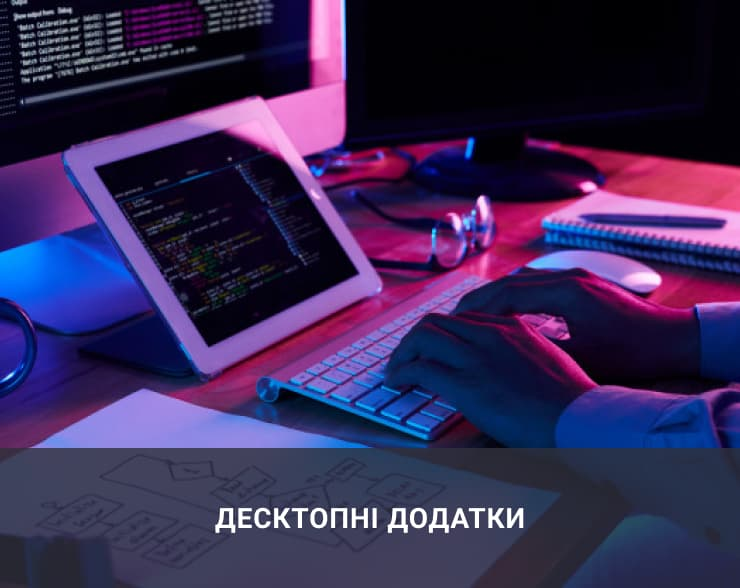
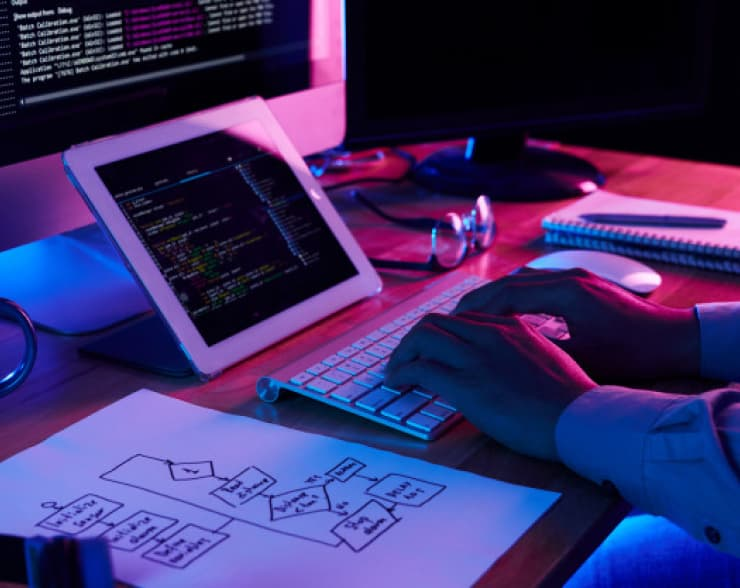
Section 3

Changed region(s): [[0.0, 0.7347, 1.0, 1.0]]

diff --git a/css/main.min.css b/css/main.min.css
@@ -1,1 +1,1 @@
-:root{--color-primary: #212121;--color-active: #2196f3;--color-secondary: #757575;--color-text: #fff;--color-icons: #afb1b8;--color-icons-footer: #ffffff;--background-color-section: #f5f4fa;--background-color-click: #188CE8;--background-color-primary: #fff;--background-color-bord: #2f303a;--font-family-primary: "Roboto", sans-serif;--font-family-logo: "Raleway", sans-serif;--bg-icons-color: #F5F4FA;--bg-icons-footer-color: rgba(255, 255, 255, 0.1);--label-color: #757575;--footer-input-color: rgba(255, 255, 255, 0.6)}body{font-family:var(--font-family-primary);color:var(--color-primary);background-color:var(--background-color-primary);font-weight:400;font-size:14px}.filter__list,.examples__list,.menu__list,.benefits__list,.services__list,.team__list,.team__social--list,.footer__social--list,.clients__list{list-style-type:none}.section{margin-left:auto;margin-right:auto;padding-top:60px;padding-bottom:60px}@media screen and (min-width: 1200px){.section{padding-top:94px;padding-bottom:94px}}.container{padding-left:15px;padding-right:15px}@media screen and (min-width: 480px){.container{width:480px;margin-left:auto;margin-right:auto}}@media screen and (min-width: 768px){.container{width:768px}}@media screen and (min-width: 1200px){.container{width:1200px}}.button{width:200px;height:50px;transition:background-color 250ms cubic-bezier(0.4, 0, 0.2, 1);color:var(--color-text);font-family:var(--font-family-primary);font-weight:700;font-size:16px;line-height:1.88;letter-spacing:.06em;cursor:pointer;background-color:var(--color-active);border-radius:4px;border:1px;box-shadow:0px 4px 4px rgba(0,0,0,.15)}.button:hover,.button:focus{background-color:var(--background-color-click)}@media screen and (max-width: 767px){.header__box{display:flex;justify-content:space-between;align-items:center}}@media screen and (min-width: 768px){.header{border-bottom:1px solid #ececec}.header__box{display:flex;justify-content:center;align-items:center}}@media screen and (max-width: 767px){.mobile-menu__social,.mobile-menu__contacts,.mobile-menu__pages{list-style-type:none}.mobile-menu__social--link,.mobile-menu__pages--link,.mobile-menu__contacts--tel,.mobile-menu__contacts--mail{text-decoration:none}.mobile-menu{overflow-y:scroll;overflow-x:hidden;position:fixed;top:0;left:0;z-index:100;width:100%;height:100%;background-color:var(--color-text);opacity:0;visibility:hidden;pointer-events:none;transition:opacity 250ms cubic-bezier(0.4, 0, 0.2, 1),visibility 250ms cubic-bezier(0.4, 0, 0.2, 1)}.mobile-menu.is-open{opacity:1;visibility:visible;pointer-events:auto}.mobile-menu__box{position:relative}.mobile-menu__close--btn{position:absolute;border:0;background-color:rgba(0,0,0,0);line-height:0;top:10px;right:15px;padding:0}.mobile-menu__close--icon{width:40px;height:40px}.mobile-menu__pages{margin:0;padding-left:40px;padding-top:48px}.mobile-menu__pages--item{margin-bottom:32px}.mobile-menu__pages--item:last-child{margin-bottom:302px}.mobile-menu__pages--link{font-size:40px;line-height:1.17;font-weight:500;letter-spacing:.02em;color:var(--color-primary)}.mobile-menu__pages--link:hover,.mobile-menu__pages--link:focus{color:var(--color-active)}.mobile-menu__contacts{margin:0;padding-left:40px}.mobile-menu__contacts--item{margin-bottom:32px}.mobile-menu__contacts--item:last-child{margin-bottom:65px}.mobile-menu__contacts--tel{font-weight:500;font-size:34px;line-height:1.17;letter-spacing:.02em;color:var(--color-active)}.mobile-menu__contacts--mail{font-weight:500;font-size:24px;line-height:1.16;letter-spacing:.02em;color:var(--color-secondary)}.mobile-menu__social{display:flex;align-items:center;padding-bottom:48px;padding-left:40px;margin:0}.mobile-menu__social--item{border-right:1px solid rgba(33,33,33,.2);padding-right:10px;padding-left:10px}.mobile-menu__social--item:first-child{padding-left:0}.mobile-menu__social--item:last-child{border-right:0;padding-right:0}.mobile-menu__social--link{font-weight:500;font-size:18px;line-height:1.22;letter-spacing:.02em;color:var(--color-active)}}@media screen and (min-width: 768px){.mobile-menu{display:none}}.menu__logo{display:block;color:var(--color-primary);font-family:var(--font-family-logo);text-decoration:none;font-weight:700;font-size:24px;letter-spacing:.03em}.menu__logo-inverse{color:var(--color-active)}@media screen and (max-width: 767px){.menu__logo{margin-right:0;padding:15px 15px;padding-right:0}.menu{display:none}.open-mobile-menu-btn{padding:0;border:0;background-color:rgba(0,0,0,0);line-height:0;margin-left:auto}.icon-burger{width:40px;height:40px}}@media screen and (min-width: 768px){.open-mobile-menu-btn{display:none}.menu{display:flex;align-items:center;padding:0}.menu__logo{margin-right:88px;padding-left:15px;line-height:1.16}.menu__list{display:flex;padding:0px;margin:0;margin-right:90px}.menu__item{margin-right:50px}.menu__item:last-child{margin-right:0}}.menu__link{position:relative;transition:color 250ms cubic-bezier(0.4, 0, 0.2, 1);color:var(--color-primary);text-decoration:none;font-weight:500;font-size:12px;line-height:1.14;letter-spacing:.02em;display:block;padding-top:32px;padding-bottom:32px}.menu__link::after{content:" ";position:absolute;bottom:0;left:0;opacity:0;display:block;width:100%;height:4px;border-radius:2px;background-color:var(--color-active)}.menu__link:hover,.menu__link:focus{color:var(--color-active)}.menu__link.current::after{opacity:1}@media screen and (min-width: 1200px){.menu__logo{font-size:26px;line-height:1.94;margin-right:93px}.menu__link{font-size:14px}}@media screen and (min-width: 768px){.contact{display:flex;flex-direction:column}.contact__link{display:block;color:var(--color-secondary);transition:color 250ms cubic-bezier(0.4, 0, 0.2, 1);text-decoration:none;font-weight:500;font-size:12px;line-height:1.16;letter-spacing:.02em;margin-bottom:10px}.contact__link:hover,.contact__link:focus{color:var(--color-active)}.contact__link:last-child{margin:0}.contact__icon{margin-right:8px;fill:currentColor}}@media screen and (min-width: 1200px){.contact{flex-direction:row;align-items:center;margin-left:auto}.contact__link{line-height:1.14;font-size:14px;margin-right:50px;margin-bottom:0}.contact__icon{margin-right:10px}}.hero{margin-left:auto;margin-right:auto;max-width:480px;max-height:400px;background-image:linear-gradient(to right, rgba(47, 48, 58, 0.4), rgba(47, 48, 58, 0.4)),url("../images/mobile-foto/mobile-overlay-foto-1x.jpg");background-repeat:no-repeat;background-size:480px 400px;background-color:var(--background-color-bord);text-align:center;line-height:0;padding-top:118px;padding-bottom:118px}.hero__title{margin-bottom:30px;font-size:26px;line-height:1.61;margin-top:0;text-align:center;color:var(--color-text);font-weight:900;letter-spacing:.06em;text-transform:uppercase}@media screen and (min-device-pixel-ratio: 2)and (max-width: 767px),(-webkit-min-device-pixel-ratio: 2)and (max-width: 767px),(min-resolution: 192dpi)and (max-width: 767px),(min-resolution: 2)and (max-width: 767px){.hero{background-image:url("../images/mobile-foto/mobile-overlay-foto@2x.jpg")}}@media screen and (min-width: 768px){.hero{background-image:url("../images/tablet-foto/tablet-overlay-foto-1x.jpg");background-size:768px 400px;max-width:768px;max-height:400px}}@media screen and (min-device-pixel-ratio: 2)and (min-width: 768px),(-webkit-min-device-pixel-ratio: 2)and (min-width: 768px),(min-resolution: 192dpi)and (min-width: 768px),(min-resolution: 2)and (min-width: 768px){.hero{background-image:url("../images/tablet-foto/tablet-overlay-foto@2x.jpg")}}@media screen and (min-width: 1200px){.hero{background-image:url("../images/desktop-foto/desktop-overlay-foto-1x.jpg");background-size:1600px 600px;max-width:1600px;max-height:600px;padding-top:200px;padding-bottom:200px}.hero__title{font-size:44px;line-height:1.36;margin-bottom:40px}}@media screen and (min-device-pixel-ratio: 2)and (min-width: 1200px),(-webkit-min-device-pixel-ratio: 2)and (min-width: 1200px),(min-resolution: 192dpi)and (min-width: 1200px),(min-resolution: 2)and (min-width: 1200px){.hero{background-image:url("../images/desktop-foto/desktop-overlay-foto@2x.jpg")}}.backdrop{position:fixed;top:0;left:0;width:100%;height:100%;visibility:visible;z-index:1;transition:opacity 250ms cubic-bezier(0.4, 0, 0.2, 1),visibility 250ms cubic-bezier(0.4, 0, 0.2, 1);background-color:rgba(0,0,0,.1)}.backdrop.is-hidden{opacity:0;visibility:hidden;pointer-events:none}.backdrop.is-hidden .modal{transform:translate(-50%, -50%) scale(0.75)}.modal{box-shadow:0px 1px 3px rgba(0,0,0,.12),0px 1px 1px rgba(0,0,0,.14),0px 2px 1px rgba(0,0,0,.2);border-radius:4px;background-color:var(--color-text);max-width:450px;max-height:609px}@media screen and (max-width: 767px){.modal{position:relative}.modal-container{padding:93px 15px}}@media screen and (min-width: 768px){.modal{position:relative}.modal-container{padding:208px 159px}}@media screen and (min-width: 1200px){.modal{position:absolute;top:50%;left:50%;transform:translate(-50%, -50%) scale(1);transition:transform 250ms cubic-bezier(0.4, 0, 0.2, 1);min-width:528px;min-height:581px}}.modal__inner{padding:40px}.modal__btn{position:absolute;top:8px;right:8px;display:flex;justify-content:center;align-items:center;background-color:var(--background-color-primary);border:1px solid rgba(0,0,0,.1);border-radius:50%;color:var(--color-primary);width:30px;height:30px;cursor:pointer}.modal__btn:hover,.modal__btn:focus{color:var(--color-active)}.modal__icon{fill:currentColor;width:18px;height:18px}.form__title{margin:0;margin-bottom:12px;font-weight:700;font-size:20px;line-height:1.15;text-align:center;letter-spacing:.03em}.form__field--label{display:block;margin-bottom:4px;color:var(--label-color);text-align:start;font-weight:400;font-size:12px;line-height:1.16;letter-spacing:.01em;cursor:pointer}.form__field--input{width:100%;height:40px;cursor:pointer;transition:border 250ms cubic-bezier(0.4, 0, 0.2, 1);padding:12px 42px;border:1px solid rgba(33,33,33,.2);border-radius:4px}.form__field--input:hover,.form__field--input:focus{border-color:#2196f3}.form__field--input:hover+.form__icon,.form__field--input:focus+.form__icon{color:var(--color-active)}.form__comment{padding:12px 16px;height:120px;resize:none;border:1px solid rgba(33,33,33,.2);border-radius:4px;font-weight:400;font-size:12px;line-height:1.16;letter-spacing:.01em}.terms-condition{position:relative;display:flex;justify-content:center;align-items:center;cursor:pointer;margin-top:20px;margin-bottom:30px;font-size:12px;line-height:1.16;letter-spacing:.03em}.terms-condition__text{margin-left:18px}@media screen and (min-width: 1200px){.terms-condition{font-size:14px;line-height:1.71}.terms-condition__text{margin-left:8px}}.terms-condition__link{color:var(--color-active)}.form__field--box{position:relative;margin-bottom:10px;transition:color 250ms cubic-bezier(0.4, 0, 0.2, 1);color:var(--color-primary)}.form__field--box:hover,.form__field--box:focus,.form__field--box:active{color:var(--color-active)}.form__icon{position:absolute;fill:currentColor;left:12px;top:50%;transform:translateY(-50%);width:18px;height:18px}.subscription{margin-left:auto}.subscription__form{display:flex;align-items:center;justify-content:center}.subscription__title{margin:0;margin-bottom:20px;color:var(--color-text);font-weight:700;font-size:14px;line-height:1.14;letter-spacing:.03em;text-transform:uppercase}.subscription__input{filter:drop-shadow(0px 4px 4px rgba(0, 0, 0, 0.15));background-color:rgba(0,0,0,0);border-radius:4px;border:1px solid rgba(255,255,255,.3);padding:15px 16px;margin-right:12px;width:358px;height:50px;color:var(--footer-input-color)}.subscription__input::-moz-placeholder{color:var(--footer-input-color)}.subscription__input:-ms-input-placeholder{color:var(--footer-input-color)}.subscription__input::placeholder{color:var(--footer-input-color)}.subscription__btn{display:flex;justify-content:center;align-items:center}.subscription__btn:hover,.subscription__btn:focus{background-color:var(--background-color-click)}.subscription__btn--icon{margin-left:10px}.checkbox{position:absolute;width:1px;height:1px;margin:-8px;border:0;padding:0;clip:rect(0 0 0 0);overflow:hidden}.checkbox:checked~.checkbox__icon{opacity:0}.checkbox:checked~.checkbox__icon--active{opacity:1}.checkbox__icon{position:absolute;left:0;top:50%;transform:translateY(-50%);width:16px;height:15px;opacity:1;transition:opacity 250ms cubic-bezier(0.4, 0, 0.2, 1)}.checkbox__icon--active{position:absolute;left:0;top:50%;transform:translateY(-50%);fill:var(--color-active);width:16px;height:15px;opacity:0;transition:opacity 250ms cubic-bezier(0.4, 0, 0.2, 1)}.benefits__box{background-color:var(--bg-icons-color);display:flex;justify-content:center;align-items:center;max-width:450px;height:120px;padding:0;margin-bottom:30px;text-align:center;border-radius:4px}.benefits__icon{width:70px;height:70px;display:block}.benefits__list{padding:0;margin:0}.benefits__item{margin-bottom:30px}.benefits__title{margin-top:0;margin-bottom:10px;color:var(--color-primary);font-size:14px;font-weight:700;line-height:1.14;text-transform:uppercase;text-align:center;letter-spacing:.03em}.benefits__paragraph{margin:0;color:var(--color-secondary);letter-spacing:.03em;line-height:1.715}@media screen and (min-width: 768px)and (max-width: 1199px){.benefits__box{max-width:354px}.benefits__list{display:flex;flex-wrap:wrap}.benefits__item{width:354px;margin-right:30px}.benefits__item:nth-child(2n+2){margin-right:0}.benefits__item:nth-last-child(-n+2){margin-bottom:0}.benefits__title{text-align:start}}@media screen and (min-width: 1200px){.benefits__box{max-width:270px}.benefits__list{display:flex;flex-wrap:nowrap}.benefits__item{width:270px;margin-right:30px}.benefits__item:last-child{margin-right:0}.benefits__title{text-align:start;line-height:1.172}}.services{text-align:center;padding-top:0}.services__title{margin:0;margin-bottom:50px;font-weight:700;font-size:36px;line-height:1.172;letter-spacing:.03em}.services__list{display:flex;margin:0;padding:0}.services__item{position:relative;margin-right:30px}.services__item:last-child{margin:0}.services__img{display:block}.services__description{position:absolute;left:0;bottom:0;display:flex;justify-content:center;align-items:center;width:100%;height:70px;margin:0;background-color:rgba(47,48,58,.8)}.services__description--text{margin:0;font-weight:700;font-size:14px;line-height:1.142;text-align:center;text-transform:uppercase;color:var(--color-text)}.team{text-align:center;background-color:var(--background-color-section)}.team__list{display:flex;padding:0;margin:0}.team__item{margin-right:30px;background-color:var(--background-color-primary);box-shadow:0px 1px 3px rgba(0,0,0,.12),0px 1px 1px rgba(0,0,0,.14),0px 2px 1px rgba(0,0,0,.2);border-radius:0px 0px 4px 4px}.team__item:last-child{margin:0}.team__title{margin:0;margin-bottom:50px;font-weight:700;font-size:36px}.team__box{padding-top:30px;padding-bottom:16px}.team__name{margin:0;margin-bottom:10px;color:var(--color-primary);font-weight:500;font-size:16px;line-height:1.18;letter-spacing:.03em}.team__job{margin:0;color:var(--color-secondary);font-size:16px;line-height:1.172;letter-spacing:.03em}.team__social--list{display:flex;justify-content:center;align-items:center;padding:0;padding-bottom:30px;padding-left:32px;padding-right:32px}.team__social--item{margin-right:10px}.team__social--item:last-child{margin-right:0}.team__social--link{display:flex;justify-content:center;align-items:center;border:none;transition:color 250ms cubic-bezier(0.4, 0, 0.2, 1),background-color 250ms cubic-bezier(0.4, 0, 0.2, 1);width:44px;height:44px;border-radius:50%;color:var(--color-icons);text-decoration:none}.team__social--link:hover,.team__social--link:focus{background-color:var(--color-active);color:var(--color-text)}.team__social--icon{fill:currentColor;width:20px;height:20px}.clients__title{text-align:center;margin:0;margin-bottom:50px;font-weight:700;font-size:36px;letter-spacing:.03em}.clients__list{display:flex;justify-content:center;text-align:center;padding:0;margin:0}.clients__item{margin-right:30px}.clients__item:last-child{margin-right:0}.clients__link{display:flex;justify-content:center;align-items:center;transition:color 250ms cubic-bezier(0.4, 0, 0.2, 1),border 250ms cubic-bezier(0.4, 0, 0.2, 1);color:var(--color-icons);width:170px;height:92px;border:1px solid #afb1b8;border-radius:4px}.clients__link:hover,.clients__link:focus{border:1px solid var(--color-active);color:var(--color-active)}.clients__icon{fill:currentColor}.filter{margin-bottom:50px}.filter__list{display:flex;justify-content:center;align-items:flex-start;padding:0;margin:0}.filter__button{height:38px;margin-right:8px;padding-left:22px;padding-right:22px;font-family:var(--font-family-primary);color:var(--color-primary);font-weight:500;font-size:16px;line-height:1.625;background-color:var(--background-color-section);cursor:pointer;border-radius:4px;border:1px;transition:color 250ms cubic-bezier(0.4, 0, 0.2, 1),background-color 250ms cubic-bezier(0.4, 0, 0.2, 1),box-shadow 250ms cubic-bezier(0.4, 0, 0.2, 1)}.filter__button:hover,.filter__button:focus{color:var(--color-text);background-color:var(--color-active);box-shadow:0px 4px 4px rgba(0,0,0,.25)}.examples__img{display:block}.examples__list{display:flex;flex-wrap:wrap;margin:0;padding:0}.examples__item{transition:box-shadow 250ms cubic-bezier(0.4, 0, 0.2, 1);width:370px;margin-right:30px;margin-bottom:30px}.examples__item:nth-child(3n){margin-right:0}.examples__item:nth-last-child(-n+3){margin-bottom:0}.examples__item:hover{box-shadow:0px 4px 4px rgba(0,0,0,.25)}.examples__box{padding:20px 24px;border:1px solid #eee;border-top:none}.examples__title{margin-top:0;margin-bottom:4px;color:var(--color-primary);font-weight:700;font-size:18px;line-height:2}.examples__form{margin:0;color:var(--color-secondary);font-weight:400;font-size:16px;line-height:1.87}.overlay{position:absolute;top:0;transform:translateY(150%);transition:transform 250ms cubic-bezier(0.4, 0, 0.2, 1);width:100%;height:294px;display:flex;justify-content:center;align-items:center;background-color:rgba(33,150,243,.9)}.overlay__paragraph{margin:0;padding:63px 24px;color:var(--color-text);font-size:18px;line-height:1.55;letter-spacing:.03em}.overlay__box{position:relative;overflow:hidden}.examples__item:hover .overlay{transform:translateY(0)}.footer{padding-top:60px;padding-bottom:60px;background-color:var(--background-color-bord);line-height:1.72}.footer__box{display:flex;align-items:baseline}.footer__logo{color:var(--color-text);font-family:var(--font-family-logo);text-decoration:none;font-weight:700;font-size:26px;line-height:1.192;letter-spacing:.03em}.footer__logo--inverse{color:var(--color-active)}.footer__social--box{width:208px;margin:0;padding:0;margin-left:70px}.footer__social--title{margin:0;margin-bottom:20px;color:var(--color-text);text-transform:uppercase;font-weight:700;font-size:14px;line-height:1.142;letter-spacing:.03em}.footer__social--list{display:flex;padding:0;margin:0}.footer__social--item{margin-right:10px}.footer__social--item:last-child{margin-right:0}.footer__social--link{display:flex;justify-content:center;align-items:center;width:44px;height:44px;border-radius:50%;transition:background-color 250ms cubic-bezier(0.4, 0, 0.2, 1);color:var(--color-icons-footer);text-decoration:none;background-color:var(--bg-icons-footer-color)}.footer__social--link:hover,.footer__social--link:focus{background-color:var(--color-active)}.footer__social--icon{fill:currentColor;width:20px;height:20px}.adress__box{width:231px;margin:0;padding:0}.address{margin-top:20px;color:var(--color-text);font-style:normal;letter-spacing:.03em}.adress__contact{margin-bottom:0;margin-top:9px}.adress__contact--link{transition:color 250ms cubic-bezier(0.4, 0, 0.2, 1);color:var(--color-secondary);text-decoration:none;color:rgba(255,255,255,.6);letter-spacing:.03em}.adress__contact--link:hover,.adress__contact--link:focus{color:var(--color-active)}/*# sourceMappingURL=main.min.css.map */
+:root{--color-primary: #212121;--color-active: #2196f3;--color-secondary: #757575;--color-text: #fff;--color-icons: #afb1b8;--color-icons-footer: #ffffff;--background-color-section: #f5f4fa;--background-color-click: #188CE8;--background-color-primary: #fff;--background-color-bord: #2f303a;--font-family-primary: "Roboto", sans-serif;--font-family-logo: "Raleway", sans-serif;--bg-icons-color: #F5F4FA;--bg-icons-footer-color: rgba(255, 255, 255, 0.1);--label-color: #757575;--footer-input-color: rgba(255, 255, 255, 0.6)}body{font-family:var(--font-family-primary);color:var(--color-primary);background-color:var(--background-color-primary);font-weight:400;font-size:14px}.filter__list,.examples__list,.menu__list,.benefits__list,.services__list,.team__list,.team__social--list,.footer__social--list,.clients__list{list-style-type:none}.section{margin-left:auto;margin-right:auto;padding-top:60px;padding-bottom:60px}@media screen and (min-width: 1200px){.section{padding-top:94px;padding-bottom:94px}}.container{padding-left:15px;padding-right:15px}@media screen and (min-width: 480px){.container{width:480px;margin-left:auto;margin-right:auto}}@media screen and (min-width: 768px){.container{width:768px}}@media screen and (min-width: 1200px){.container{width:1200px}}.button{width:200px;height:50px;transition:background-color 250ms cubic-bezier(0.4, 0, 0.2, 1);color:var(--color-text);font-family:var(--font-family-primary);font-weight:700;font-size:16px;line-height:1.88;letter-spacing:.06em;cursor:pointer;background-color:var(--color-active);border-radius:4px;border:1px;box-shadow:0px 4px 4px rgba(0,0,0,.15)}.button:hover,.button:focus{background-color:var(--background-color-click)}@media screen and (max-width: 767px){.header__box{display:flex;justify-content:space-between;align-items:center}}@media screen and (min-width: 768px){.header{border-bottom:1px solid #ececec}.header__box{display:flex;justify-content:center;align-items:center}}@media screen and (max-width: 767px){.mobile-menu__social,.mobile-menu__contacts,.mobile-menu__pages{list-style-type:none}.mobile-menu__social--link,.mobile-menu__pages--link,.mobile-menu__contacts--tel,.mobile-menu__contacts--mail{text-decoration:none}.mobile-menu{overflow-y:scroll;overflow-x:hidden;position:fixed;top:0;left:0;z-index:100;width:100%;height:100%;background-color:var(--color-text);opacity:0;visibility:hidden;pointer-events:none;transition:opacity 250ms cubic-bezier(0.4, 0, 0.2, 1),visibility 250ms cubic-bezier(0.4, 0, 0.2, 1)}.mobile-menu.is-open{opacity:1;visibility:visible;pointer-events:auto}.mobile-menu__box{position:relative}.mobile-menu__close--btn{position:absolute;border:0;background-color:rgba(0,0,0,0);line-height:0;top:10px;right:15px;padding:0}.mobile-menu__close--icon{width:40px;height:40px}.mobile-menu__pages{margin:0;padding-left:40px;padding-top:48px}.mobile-menu__pages--item{margin-bottom:32px}.mobile-menu__pages--item:last-child{margin-bottom:302px}.mobile-menu__pages--link{font-size:40px;line-height:1.17;font-weight:500;letter-spacing:.02em;color:var(--color-primary)}.mobile-menu__pages--link:hover,.mobile-menu__pages--link:focus{color:var(--color-active)}.mobile-menu__contacts{margin:0;padding-left:40px}.mobile-menu__contacts--item{margin-bottom:32px}.mobile-menu__contacts--item:last-child{margin-bottom:65px}.mobile-menu__contacts--tel{font-weight:500;font-size:34px;line-height:1.17;letter-spacing:.02em;color:var(--color-active)}.mobile-menu__contacts--mail{font-weight:500;font-size:24px;line-height:1.16;letter-spacing:.02em;color:var(--color-secondary)}.mobile-menu__social{display:flex;align-items:center;padding-bottom:48px;padding-left:40px;margin:0}.mobile-menu__social--item{border-right:1px solid rgba(33,33,33,.2);padding-right:10px;padding-left:10px}.mobile-menu__social--item:first-child{padding-left:0}.mobile-menu__social--item:last-child{border-right:0;padding-right:0}.mobile-menu__social--link{font-weight:500;font-size:18px;line-height:1.22;letter-spacing:.02em;color:var(--color-active)}}@media screen and (min-width: 768px){.mobile-menu{display:none}}.menu__logo{display:block;color:var(--color-primary);font-family:var(--font-family-logo);text-decoration:none;font-weight:700;font-size:24px;letter-spacing:.03em}.menu__logo-inverse{color:var(--color-active)}@media screen and (max-width: 767px){.menu__logo{margin-right:0;padding:15px 15px;padding-right:0}.menu{display:none}.open-mobile-menu-btn{padding:0;border:0;background-color:rgba(0,0,0,0);line-height:0;margin-left:auto}.icon-burger{width:40px;height:40px}}@media screen and (min-width: 768px){.open-mobile-menu-btn{display:none}.menu{display:flex;align-items:center;padding:0}.menu__logo{margin-right:88px;padding-left:15px;line-height:1.16}.menu__list{display:flex;padding:0px;margin:0;margin-right:90px}.menu__item{margin-right:50px}.menu__item:last-child{margin-right:0}}.menu__link{position:relative;transition:color 250ms cubic-bezier(0.4, 0, 0.2, 1);color:var(--color-primary);text-decoration:none;font-weight:500;font-size:12px;line-height:1.14;letter-spacing:.02em;display:block;padding-top:32px;padding-bottom:32px}.menu__link::after{content:" ";position:absolute;bottom:0;left:0;opacity:0;display:block;width:100%;height:4px;border-radius:2px;background-color:var(--color-active)}.menu__link:hover,.menu__link:focus{color:var(--color-active)}.menu__link.current::after{opacity:1}@media screen and (min-width: 1200px){.menu__logo{font-size:26px;line-height:1.94;margin-right:93px}.menu__link{font-size:14px}}@media screen and (min-width: 768px){.contact{display:flex;flex-direction:column}.contact__link{display:block;color:var(--color-secondary);transition:color 250ms cubic-bezier(0.4, 0, 0.2, 1);text-decoration:none;font-weight:500;font-size:12px;line-height:1.16;letter-spacing:.02em;margin-bottom:10px}.contact__link:hover,.contact__link:focus{color:var(--color-active)}.contact__link:last-child{margin:0}.contact__icon{margin-right:8px;fill:currentColor}}@media screen and (min-width: 1200px){.contact{flex-direction:row;align-items:center;margin-left:auto}.contact__link{line-height:1.14;font-size:14px;margin-right:50px;margin-bottom:0}.contact__icon{margin-right:10px}}.hero{margin-left:auto;margin-right:auto;max-width:480px;max-height:400px;background-image:linear-gradient(to right, rgba(47, 48, 58, 0.4), rgba(47, 48, 58, 0.4)),url("../images/mobile-foto/mobile-overlay-foto-1x.jpg");background-repeat:no-repeat;background-size:480px 400px;background-color:var(--background-color-bord);text-align:center;line-height:0;padding-top:118px;padding-bottom:118px}.hero__title{margin-bottom:30px;font-size:26px;line-height:1.61;margin-top:0;text-align:center;color:var(--color-text);font-weight:900;letter-spacing:.06em;text-transform:uppercase}@media screen and (min-device-pixel-ratio: 2)and (max-width: 767px),(-webkit-min-device-pixel-ratio: 2)and (max-width: 767px),(min-resolution: 192dpi)and (max-width: 767px),(min-resolution: 2)and (max-width: 767px){.hero{background-image:url("../images/mobile-foto/mobile-overlay-foto@2x.jpg")}}@media screen and (min-width: 768px){.hero{background-image:url("../images/tablet-foto/tablet-overlay-foto-1x.jpg");background-size:768px 400px;max-width:768px;max-height:400px}}@media screen and (min-device-pixel-ratio: 2)and (min-width: 768px),(-webkit-min-device-pixel-ratio: 2)and (min-width: 768px),(min-resolution: 192dpi)and (min-width: 768px),(min-resolution: 2)and (min-width: 768px){.hero{background-image:url("../images/tablet-foto/tablet-overlay-foto@2x.jpg")}}@media screen and (min-width: 1200px){.hero{background-image:url("../images/desktop-foto/desktop-overlay-foto-1x.jpg");background-size:1600px 600px;max-width:1600px;max-height:600px;padding-top:200px;padding-bottom:200px}.hero__title{font-size:44px;line-height:1.36;margin-bottom:40px}}@media screen and (min-device-pixel-ratio: 2)and (min-width: 1200px),(-webkit-min-device-pixel-ratio: 2)and (min-width: 1200px),(min-resolution: 192dpi)and (min-width: 1200px),(min-resolution: 2)and (min-width: 1200px){.hero{background-image:url("../images/desktop-foto/desktop-overlay-foto@2x.jpg")}}.backdrop{position:fixed;top:0;left:0;width:100%;height:100%;visibility:visible;z-index:1;transition:opacity 250ms cubic-bezier(0.4, 0, 0.2, 1),visibility 250ms cubic-bezier(0.4, 0, 0.2, 1);background-color:rgba(0,0,0,.1)}.backdrop.is-hidden{opacity:0;visibility:hidden;pointer-events:none}.backdrop.is-hidden .modal{transform:translate(-50%, -50%) scale(0.75)}.modal{box-shadow:0px 1px 3px rgba(0,0,0,.12),0px 1px 1px rgba(0,0,0,.14),0px 2px 1px rgba(0,0,0,.2);border-radius:4px;background-color:var(--color-text);max-width:450px;max-height:609px}@media screen and (max-width: 767px){.modal{position:relative}.modal-container{padding:93px 15px}}@media screen and (min-width: 768px){.modal{position:relative}.modal-container{padding:208px 159px}}@media screen and (min-width: 1200px){.modal{position:absolute;top:50%;left:50%;transform:translate(-50%, -50%) scale(1);transition:transform 250ms cubic-bezier(0.4, 0, 0.2, 1);min-width:528px;min-height:581px}}.modal__inner{padding:40px}.modal__btn{position:absolute;top:8px;right:8px;display:flex;justify-content:center;align-items:center;background-color:var(--background-color-primary);border:1px solid rgba(0,0,0,.1);border-radius:50%;color:var(--color-primary);width:30px;height:30px;cursor:pointer}.modal__btn:hover,.modal__btn:focus{color:var(--color-active)}.modal__icon{fill:currentColor;width:18px;height:18px}.form__title{margin:0;margin-bottom:12px;font-weight:700;font-size:20px;line-height:1.15;text-align:center;letter-spacing:.03em}.form__field--label{display:block;margin-bottom:4px;color:var(--label-color);text-align:start;font-weight:400;font-size:12px;line-height:1.16;letter-spacing:.01em;cursor:pointer}.form__field--input{width:100%;height:40px;cursor:pointer;transition:border 250ms cubic-bezier(0.4, 0, 0.2, 1);padding:12px 42px;border:1px solid rgba(33,33,33,.2);border-radius:4px}.form__field--input:hover,.form__field--input:focus{border-color:#2196f3}.form__field--input:hover+.form__icon,.form__field--input:focus+.form__icon{color:var(--color-active)}.form__comment{padding:12px 16px;height:120px;resize:none;border:1px solid rgba(33,33,33,.2);border-radius:4px;font-weight:400;font-size:12px;line-height:1.16;letter-spacing:.01em}.terms-condition{position:relative;display:flex;justify-content:center;align-items:center;cursor:pointer;margin-top:20px;margin-bottom:30px;font-size:12px;line-height:1.16;letter-spacing:.03em}.terms-condition__text{margin-left:18px}@media screen and (min-width: 1200px){.terms-condition{font-size:14px;line-height:1.71}.terms-condition__text{margin-left:8px}}.terms-condition__link{color:var(--color-active)}.form__field--box{position:relative;margin-bottom:10px;transition:color 250ms cubic-bezier(0.4, 0, 0.2, 1);color:var(--color-primary)}.form__field--box:hover,.form__field--box:focus,.form__field--box:active{color:var(--color-active)}.form__icon{position:absolute;fill:currentColor;left:12px;top:50%;transform:translateY(-50%);width:18px;height:18px}.subscription{margin-left:auto}.subscription__form{display:flex;align-items:center;justify-content:center}.subscription__title{margin:0;margin-bottom:20px;color:var(--color-text);font-weight:700;font-size:14px;line-height:1.14;letter-spacing:.03em;text-transform:uppercase}.subscription__input{filter:drop-shadow(0px 4px 4px rgba(0, 0, 0, 0.15));background-color:rgba(0,0,0,0);border-radius:4px;border:1px solid rgba(255,255,255,.3);padding:15px 16px;margin-right:12px;width:358px;height:50px;color:var(--footer-input-color)}.subscription__input::-moz-placeholder{color:var(--footer-input-color)}.subscription__input:-ms-input-placeholder{color:var(--footer-input-color)}.subscription__input::placeholder{color:var(--footer-input-color)}.subscription__btn{display:flex;justify-content:center;align-items:center}.subscription__btn:hover,.subscription__btn:focus{background-color:var(--background-color-click)}.subscription__btn--icon{margin-left:10px}.checkbox{position:absolute;width:1px;height:1px;margin:-8px;border:0;padding:0;clip:rect(0 0 0 0);overflow:hidden}.checkbox:checked~.checkbox__icon{opacity:0}.checkbox:checked~.checkbox__icon--active{opacity:1}.checkbox__icon{position:absolute;left:0;top:50%;transform:translateY(-50%);width:16px;height:15px;opacity:1;transition:opacity 250ms cubic-bezier(0.4, 0, 0.2, 1)}.checkbox__icon--active{position:absolute;left:0;top:50%;transform:translateY(-50%);fill:var(--color-active);width:16px;height:15px;opacity:0;transition:opacity 250ms cubic-bezier(0.4, 0, 0.2, 1)}.benefits__box{background-color:var(--bg-icons-color);display:flex;justify-content:center;align-items:center;max-width:450px;height:120px;padding:0;margin-bottom:30px;text-align:center;border-radius:4px}.benefits__icon{width:70px;height:70px;display:block}.benefits__list{padding:0;margin:0}.benefits__item{margin-bottom:30px}.benefits__title{margin-top:0;margin-bottom:10px;color:var(--color-primary);font-size:14px;font-weight:700;line-height:1.14;text-transform:uppercase;text-align:center;letter-spacing:.03em}.benefits__paragraph{margin:0;color:var(--color-secondary);letter-spacing:.03em;line-height:1.715}@media screen and (min-width: 768px)and (max-width: 1199px){.benefits__box{max-width:354px}.benefits__list{display:flex;flex-wrap:wrap}.benefits__item{width:354px;margin-right:30px}.benefits__item:nth-child(2n+2){margin-right:0}.benefits__item:nth-last-child(-n+2){margin-bottom:0}.benefits__title{text-align:start}}@media screen and (min-width: 1200px){.benefits__box{max-width:270px}.benefits__list{display:flex;flex-wrap:nowrap}.benefits__item{width:270px;margin-right:30px}.benefits__item:last-child{margin-right:0}.benefits__title{text-align:start;line-height:1.172}}@media screen and (max-width: 1199px){.services{display:none}}.services{text-align:center;padding-top:0}.services__title{margin:0;margin-bottom:50px;font-weight:700;font-size:36px;line-height:1.172;letter-spacing:.03em}.services__list{display:flex;margin:0;padding:0}.services__item{position:relative;margin-right:30px}.services__item:last-child{margin:0}.services__img{display:block}.services__description{position:absolute;left:0;bottom:0;display:flex;justify-content:center;align-items:center;width:100%;height:70px;margin:0;background-color:rgba(47,48,58,.8)}.services__description--text{margin:0;font-weight:700;font-size:14px;line-height:1.142;text-align:center;text-transform:uppercase;color:var(--color-text)}.team{text-align:center;background-color:var(--background-color-section)}.team__list{display:flex;padding:0;margin:0}.team__item{margin-right:30px;background-color:var(--background-color-primary);box-shadow:0px 1px 3px rgba(0,0,0,.12),0px 1px 1px rgba(0,0,0,.14),0px 2px 1px rgba(0,0,0,.2);border-radius:0px 0px 4px 4px}.team__item:last-child{margin:0}.team__title{margin:0;margin-bottom:50px;font-weight:700;font-size:36px}.team__box{padding-top:30px;padding-bottom:16px}.team__name{margin:0;margin-bottom:10px;color:var(--color-primary);font-weight:500;font-size:16px;line-height:1.18;letter-spacing:.03em}.team__job{margin:0;color:var(--color-secondary);font-size:16px;line-height:1.172;letter-spacing:.03em}.team__social--list{display:flex;justify-content:center;align-items:center;padding:0;padding-bottom:30px;padding-left:32px;padding-right:32px}.team__social--item{margin-right:10px}.team__social--item:last-child{margin-right:0}.team__social--link{display:flex;justify-content:center;align-items:center;border:none;transition:color 250ms cubic-bezier(0.4, 0, 0.2, 1),background-color 250ms cubic-bezier(0.4, 0, 0.2, 1);width:44px;height:44px;border-radius:50%;color:var(--color-icons);text-decoration:none}.team__social--link:hover,.team__social--link:focus{background-color:var(--color-active);color:var(--color-text)}.team__social--icon{fill:currentColor;width:20px;height:20px}.clients__title{text-align:center;margin:0;margin-bottom:50px;font-weight:700;font-size:36px;letter-spacing:.03em}.clients__list{display:flex;justify-content:center;text-align:center;padding:0;margin:0}.clients__item{margin-right:30px}.clients__item:last-child{margin-right:0}.clients__link{display:flex;justify-content:center;align-items:center;transition:color 250ms cubic-bezier(0.4, 0, 0.2, 1),border 250ms cubic-bezier(0.4, 0, 0.2, 1);color:var(--color-icons);width:170px;height:92px;border:1px solid #afb1b8;border-radius:4px}.clients__link:hover,.clients__link:focus{border:1px solid var(--color-active);color:var(--color-active)}.clients__icon{fill:currentColor}.filter{margin-bottom:50px}.filter__list{display:flex;justify-content:center;align-items:flex-start;padding:0;margin:0}.filter__button{height:38px;margin-right:8px;padding-left:22px;padding-right:22px;font-family:var(--font-family-primary);color:var(--color-primary);font-weight:500;font-size:16px;line-height:1.625;background-color:var(--background-color-section);cursor:pointer;border-radius:4px;border:1px;transition:color 250ms cubic-bezier(0.4, 0, 0.2, 1),background-color 250ms cubic-bezier(0.4, 0, 0.2, 1),box-shadow 250ms cubic-bezier(0.4, 0, 0.2, 1)}.filter__button:hover,.filter__button:focus{color:var(--color-text);background-color:var(--color-active);box-shadow:0px 4px 4px rgba(0,0,0,.25)}.examples__img{display:block}.examples__list{display:flex;flex-wrap:wrap;margin:0;padding:0}.examples__item{transition:box-shadow 250ms cubic-bezier(0.4, 0, 0.2, 1);width:370px;margin-right:30px;margin-bottom:30px}.examples__item:nth-child(3n){margin-right:0}.examples__item:nth-last-child(-n+3){margin-bottom:0}.examples__item:hover{box-shadow:0px 4px 4px rgba(0,0,0,.25)}.examples__box{padding:20px 24px;border:1px solid #eee;border-top:none}.examples__title{margin-top:0;margin-bottom:4px;color:var(--color-primary);font-weight:700;font-size:18px;line-height:2}.examples__form{margin:0;color:var(--color-secondary);font-weight:400;font-size:16px;line-height:1.87}.overlay{position:absolute;top:0;transform:translateY(150%);transition:transform 250ms cubic-bezier(0.4, 0, 0.2, 1);width:100%;height:294px;display:flex;justify-content:center;align-items:center;background-color:rgba(33,150,243,.9)}.overlay__paragraph{margin:0;padding:63px 24px;color:var(--color-text);font-size:18px;line-height:1.55;letter-spacing:.03em}.overlay__box{position:relative;overflow:hidden}.examples__item:hover .overlay{transform:translateY(0)}.footer{padding-top:60px;padding-bottom:60px;background-color:var(--background-color-bord);line-height:1.72}.footer__box{display:flex;align-items:baseline}.footer__logo{color:var(--color-text);font-family:var(--font-family-logo);text-decoration:none;font-weight:700;font-size:26px;line-height:1.192;letter-spacing:.03em}.footer__logo--inverse{color:var(--color-active)}.footer__social--box{width:208px;margin:0;padding:0;margin-left:70px}.footer__social--title{margin:0;margin-bottom:20px;color:var(--color-text);text-transform:uppercase;font-weight:700;font-size:14px;line-height:1.142;letter-spacing:.03em}.footer__social--list{display:flex;padding:0;margin:0}.footer__social--item{margin-right:10px}.footer__social--item:last-child{margin-right:0}.footer__social--link{display:flex;justify-content:center;align-items:center;width:44px;height:44px;border-radius:50%;transition:background-color 250ms cubic-bezier(0.4, 0, 0.2, 1);color:var(--color-icons-footer);text-decoration:none;background-color:var(--bg-icons-footer-color)}.footer__social--link:hover,.footer__social--link:focus{background-color:var(--color-active)}.footer__social--icon{fill:currentColor;width:20px;height:20px}.adress__box{width:231px;margin:0;padding:0}.address{margin-top:20px;color:var(--color-text);font-style:normal;letter-spacing:.03em}.adress__contact{margin-bottom:0;margin-top:9px}.adress__contact--link{transition:color 250ms cubic-bezier(0.4, 0, 0.2, 1);color:var(--color-secondary);text-decoration:none;color:rgba(255,255,255,.6);letter-spacing:.03em}.adress__contact--link:hover,.adress__contact--link:focus{color:var(--color-active)}/*# sourceMappingURL=main.min.css.map */

diff --git a/index.html b/index.html
@@ -232,7 +232,7 @@
         </section> 
         
         <!--Чем мы занимаемся-->
-        <!-- <section class="services section">
+        <section class="services section">
             <div class="services__box container">
                 <h2 class="services__title">Чем мы занимаемся</h2>
             <ul class="services__list">
@@ -254,8 +254,8 @@
                 </li>
                 <li class="services__item"> 
                     <a class="services__link" href="#">
-                        <picture> -->
-                            <!-- <source srcset="./images/desktop-foto/desktop-screen-1x.jpg 1x,
+                        <picture> 
+                             <source srcset="./images/desktop-foto/desktop-screen-1x.jpg 1x,
                                             ./images/desktop-foto/desktop-screen@2x.jpg 2x">
                             <img class="services__img" src="./images/desktop-foto/desktop-screen-1x.jpg" 
                             alt="Адаптация версий для смартфонов и планшетов." 
@@ -263,9 +263,9 @@
                         </picture>
                 <div class="services__description">
                     <p class="services__description--text">Мобильные приложения</p>
-                </div></a>  -->
+                </div></a>  
                 
-                <!-- </li>
+                 </li>
                 <li class="services__item"> 
                     <a  class="services__link"href="#">
                         <picture>
@@ -282,7 +282,7 @@
                 </li>
             </ul>
             </div>
-        </section> -->
+        </section> 
         
         <!--Команда-->
         <!-- <section class="team section">

diff --git a/scss/components/_services-section.scss b/scss/components/_services-section.scss
@@ -1,3 +1,10 @@
+
+@media screen and ( max-width:1199px) {
+    .services {
+        display: none;
+    }
+}
+
 .services {
     text-align: center;
     padding-top: 0;
@@ -28,9 +35,6 @@
     }
 }
 
-// .services__item:last-child {
-//     margin: 0;
-// }
 
 .services__img { display: block;}
 
